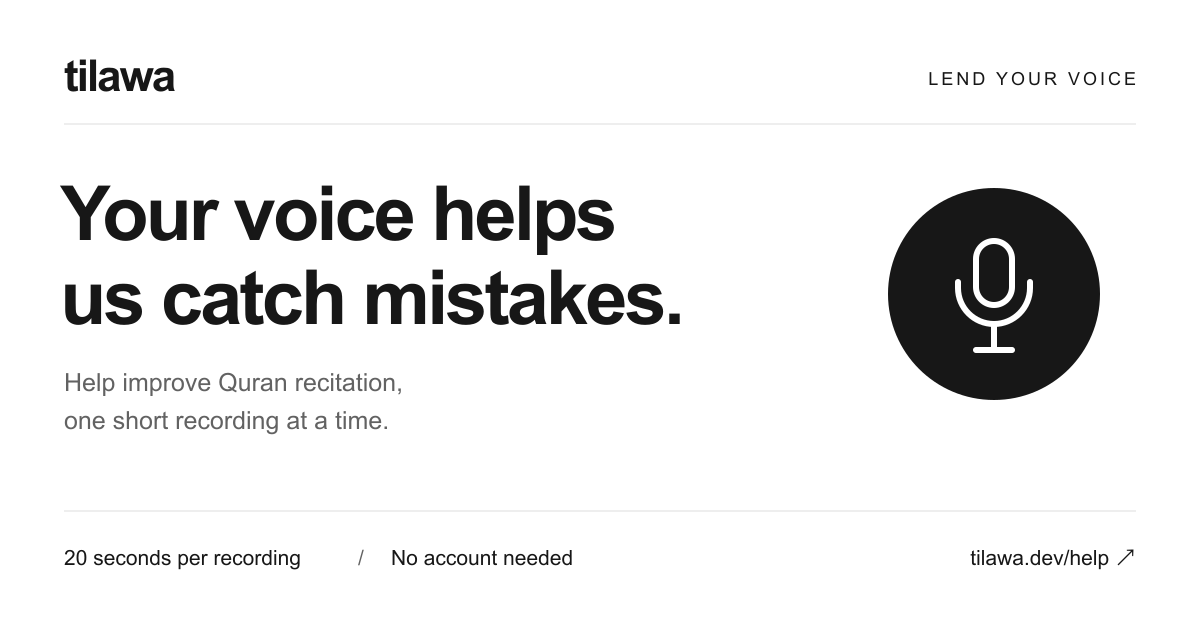
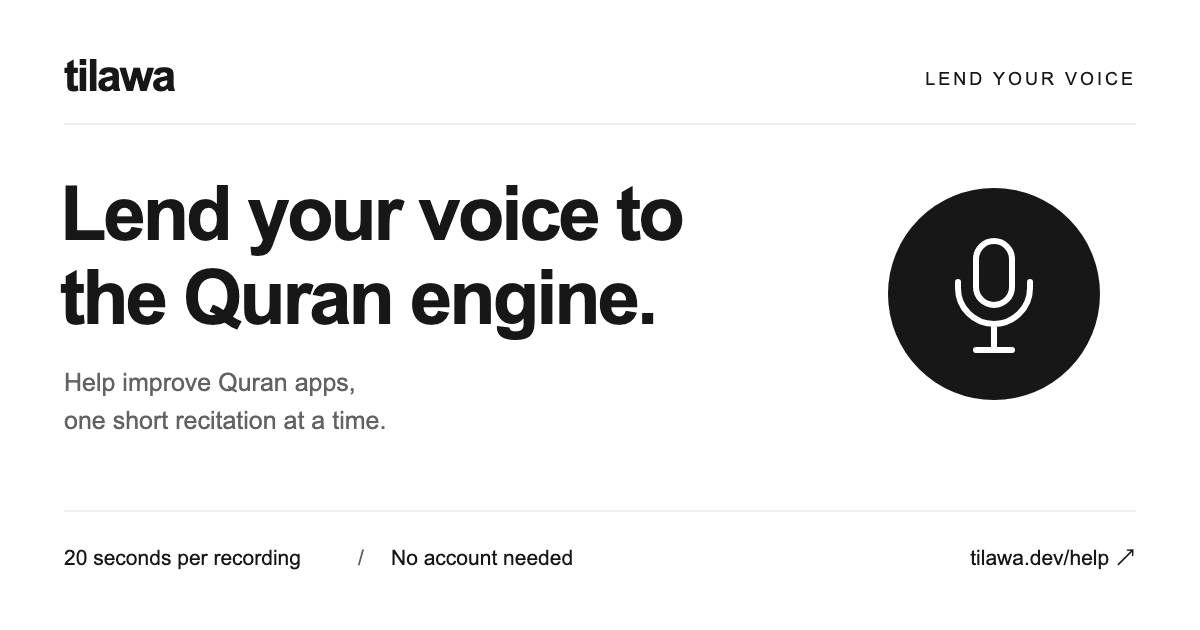
help: collect correct recitations only
Deliberately introducing mistakes into Quran recitation is not
permissible, so /help no longer asks for them. A new v4 generator issues
only normal-recitation prompts: a single ayah (60%) or 2-3 consecutive
ayahs from one surah (40%), which also exercises verse-boundary
tracking. /prompt always serves v4 and ignores ?kind; /submit accepts
only signed v4 prompts with kind 'none', so open tabs still holding
older mistake prompts get 'load another ayah' and nothing is stored.
All mistake copy is gone in en + ar (headline, lede, notes, badges,
confirmations, meta, share preview); the 'made a mistake by accident'
box stays as an honest self-report.

Existing data untouched (backed up first: server tarball
storage/backups/help-20261001T034313Z.tgz, 583 clips). v1-v3 generators
stay for reading past labels. web vitest 67/67; e2e en + ar.

diff --git a/web/frontend/public/help/i18n.js b/web/frontend/public/help/i18n.js
@@ -3,9 +3,9 @@ export const STRINGS = {
     detailsWhy: "Optional. Helps us check how Tilawa works for different readers.",
     learnMore: "Learn more",
     missionTitle: "Better Quran apps, for everyone.",
-    missionBody: "We’re building a free engine that Quran apps can use to follow each verse as you recite and help catch mistakes.",
+    missionBody: "We’re building a free engine that Quran apps can use to follow each verse as you recite.",
     missionGoal: "Our mission is to give developers the tools to build better Quran reading experiences for Muslims around the world.",
-    missionHelp: "Your recordings help us teach and test the engine with real voices and real recitation mistakes.",
+    missionHelp: "Your recordings help us teach and test the engine with real voices: different reciters, accents, and microphones.",
     tryTilawa: "Try Tilawa",
     forDevelopers: "For developers ↗",
 
@@ -22,12 +22,12 @@ export const STRINGS = {
     title: "Lend your voice to better Quran recitation \u2014 Tilawa",
     toggle: 'العربية',
     eyebrow: "Lend your voice",
-    h1: "Your voice helps us catch mistakes.",
-    lede: "Read a short ayah with the mistake we show you, or read it normally when asked. Each recording takes about 20 seconds.",
+    h1: "Lend your voice to the Quran engine.",
+    lede: "Recite a short ayah or two the way you normally would. Each recording takes about 20 seconds.",
     before: 'Before you start',
     note1: "Find a quiet spot. Your phone mic is all you need.",
     note2: "No account needed. Leave out your name and personal details.",
-    note3: 'Each prompt tells you exactly which mistake to make, highlighted in the text. About 1 in 5 asks you to just read normally.',
+    note3: 'Each prompt shows one ayah or a few in a row. Recite them as you normally would.',
     device: 'Recording on',
     'device.phone': 'Phone',
     'device.laptop': 'Laptop',
@@ -45,23 +45,9 @@ export const STRINGS = {
     'level.hafiz': 'Hafiz / teacher',
     consent: 'I agree that my recordings are released under <a href="https://creativecommons.org/licenses/by/4.0/" target="_blank" rel="noopener">CC BY 4.0</a> and may be used to train and evaluate speech models and published as a research dataset. I\'m 18 or older, or have a guardian\'s permission.',
     start: "Let’s begin",
-    'kind.none': 'No mistake',
-    'kind.skip_word': 'Skip a word',
-    'kind.skip_ayah': 'Skip an ayah',
-    'kind.substitution': 'Change a word',
-    'kind.repeat': 'Repeat a word',
-    'kind.vowel': 'Wrong haraka',
-    'kind.tajweed': 'Tajweed slip',
-    noneInstruction: "Read normally, without any mistakes.",
-    'confirm.none': 'I read it correctly',
-    'confirm.skip_word': 'I skipped the highlighted word',
-    'confirm.skip_ayah': 'I skipped the crossed-out ayah',
-    'confirm.substitution': 'I said the other word instead',
-    'confirm.repeat': 'I said the highlighted word twice',
-    'confirm.vowel': 'I read the word with the changed haraka',
-    'confirm.tajweed': 'I made the tajweed slip',
-    'extra.none': 'I slipped up by accident somewhere',
-    'extra.other': 'I also made a different mistake by accident',
+    'kind.none': 'Recite',
+    'confirm.none': 'I recited the whole passage',
+    'extra.none': 'I made a mistake by accident somewhere',
     recIdle: 'Tap to record',
     recOn: 'Recording — tap to stop',
     recDone: "Listen and check",
@@ -80,7 +66,7 @@ export const STRINGS = {
     playbackNote: "This browser can't play the recording back, but it was captured fine. You can still send it.",
     finish: "Done for now",
     doneTitle: n => (n === 1 ? 'Thank you — 1 recording submitted.' : `Thank you — ${n} recordings submitted.`),
-    doneBody: "Your recordings help Tilawa learn to spot recitation mistakes. Thank you for your time and care — every recording makes a difference.",
+    doneBody: "Your recordings help Tilawa follow recitation accurately for every kind of voice. Thank you for your time and care — every recording makes a difference.",
     shareTitle: "Help another voice join in",
     shareBody: "Share this with friends, family, or your Quran group. A few short recordings from them can help too.",
     shareDraft: "A message you can share",
@@ -100,9 +86,9 @@ export const STRINGS = {
     detailsWhy: "اختياري. يساعدنا نعرف كيف تعمل تلاوة مع قرّاء مختلفين.",
     learnMore: "اعرف أكثر",
     missionTitle: "تطبيقات قرآن أفضل للجميع.",
-    missionBody: "نبني محرّكًا مجانيًا تستطيع تطبيقات القرآن استخدامه لتتبّع الآيات أثناء التلاوة والمساعدة في اكتشاف الأخطاء.",
+    missionBody: "نبني محرّكًا مجانيًا تستطيع تطبيقات القرآن استخدامه لتتبّع الآيات أثناء التلاوة.",
     missionGoal: "هدفنا أن نوفّر للمطوّرين الأدوات لبناء تجارب أفضل لقراءة القرآن للمسلمين حول العالم.",
-    missionHelp: "تسجيلاتك تساعدنا على تدريب المحرّك واختباره بأصوات وأخطاء تلاوة حقيقية.",
+    missionHelp: "تسجيلاتك تساعدنا على تدريب المحرّك واختباره بأصوات حقيقية: قرّاء ولهجات وميكروفونات مختلفة.",
     tryTilawa: "جرّب تلاوة",
     forDevelopers: "للمطوّرين ↖",
 
@@ -119,12 +105,12 @@ export const STRINGS = {
     title: 'ساهم بصوتك لتحسين التلاوة — تلاوة',
     toggle: 'English',
     eyebrow: "ساهم بصوتك",
-    h1: "بصوتك، نعرف أخطاء التلاوة.",
-    lede: "اقرأ آية قصيرة مع الخطأ الذي نوضّحه لك، أو اقرأها بشكل صحيح إذا طلبنا ذلك. كل تسجيل حوالي ٢٠ ثانية.",
+    h1: "ساهم بصوتك في محرّك القرآن.",
+    lede: "اقرأ آية قصيرة أو آيتين كما تقرؤها عادةً. كل تسجيل حوالي ٢٠ ثانية.",
     before: 'قبل أن تبدأ',
     note1: "اختر مكانًا هادئًا. ميكروفون جوالك يكفي.",
     note2: "بدون حساب. لا تذكر اسمك أو معلوماتك الشخصية.",
-    note3: 'كل مهمة تخبرك بالخطأ المطلوب بالضبط، مع تظليله في النص. نحو مهمة من كل خمس تطلب قراءة صحيحة فقط.',
+    note3: 'كل مهمة تعرض آية أو آيات متتابعة. اقرأها كما تقرؤها عادةً.',
     device: 'التسجيل عبر',
     'device.phone': 'جوال',
     'device.laptop': 'حاسوب محمول',
@@ -142,23 +128,9 @@ export const STRINGS = {
     'level.hafiz': 'حافظ / معلّم',
     consent: 'أوافق على نشر تسجيلاتي بترخيص <a href="https://creativecommons.org/licenses/by/4.0/deed.ar" target="_blank" rel="noopener">CC BY 4.0</a>، واستخدامها في تدريب نماذج الكلام وتقييمها ونشرها ضمن مجموعة بيانات بحثية. عمري ١٨ عامًا أو أكثر، أو لديّ إذن وليّ أمري.',
     start: "نبدأ؟",
-    'kind.none': 'بلا خطأ',
-    'kind.skip_word': 'اترك كلمة',
-    'kind.skip_ayah': 'اترك آية',
-    'kind.substitution': 'غيّر كلمة',
-    'kind.repeat': 'كرّر كلمة',
-    'kind.vowel': 'حركة خاطئة',
-    'kind.tajweed': 'خطأ تجويدي',
-    noneInstruction: "اقرأ بشكل صحيح، دون أخطاء.",
-    'confirm.none': 'قرأتها قراءة صحيحة',
-    'confirm.skip_word': 'تركتُ الكلمة المظللة',
-    'confirm.skip_ayah': 'تركتُ الآية المشطوبة',
-    'confirm.substitution': 'قلتُ الكلمة الأخرى بدلًا منها',
-    'confirm.repeat': 'كرّرتُ الكلمة المظللة مرتين',
-    'confirm.vowel': 'قرأتُ الكلمة بالحركة المغيّرة',
-    'confirm.tajweed': 'أخطأتُ في التجويد كما طُلب',
+    'kind.none': 'تلاوة',
+    'confirm.none': 'قرأتُ المقطع كاملًا',
     'extra.none': 'أخطأتُ دون قصد في موضع ما',
-    'extra.other': 'أخطأتُ أيضًا خطأً آخر دون قصد',
     recIdle: 'اضغط للتسجيل',
     recOn: 'جارٍ التسجيل — اضغط للإيقاف',
     recDone: "استمع وراجع",
@@ -177,7 +149,7 @@ export const STRINGS = {
     playbackNote: 'لا يستطيع هذا المتصفح تشغيل التسجيل، لكنه سُجّل بنجاح ويمكنك إرساله.',
     finish: "أكتفي بهذا",
     doneTitle: n => `جزاك الله خيرًا — أرسلتَ ${n.toLocaleString('ar-EG')} ${n === 1 ? 'تسجيلًا' : 'تسجيلات'}.`,
-    doneBody: "تسجيلاتك تساعد تلاوة على اكتشاف أخطاء القراءة. شكرًا لوقتك واهتمامك، كل تسجيل منك له أثر.",
+    doneBody: "تسجيلاتك تساعد تلاوة على تتبّع التلاوة بدقة مع كل الأصوات. شكرًا لوقتك واهتمامك، كل تسجيل منك له أثر.",
     shareTitle: "خلّ غيرك يساهم بصوته",
     shareBody: "شارك الصفحة مع أهلك وأصحابك أو مجموعة القرآن. تسجيلات بسيطة منهم تساعدنا أيضًا.",
     shareDraft: "رسالة جاهزة للمشاركة",

diff --git a/web/frontend/test/help-api.test.ts b/web/frontend/test/help-api.test.ts
@@ -5,6 +5,8 @@ import { tmpdir } from 'node:os';
 import { join } from 'node:path';
 import { fileURLToPath } from 'node:url';
 import { generatePrompt, KIND_WEIGHTS, loadQuran } from '../server/help/prompts.mjs';
+import { generatePrompt as generateV4 } from '../server/help/prompts-v4.mjs';
+import { signPrompt } from '../server/help/prompt-token.mjs';
 
 const data = await mkdtemp(join(tmpdir(), 'tilawa-help-api-'));
 const previous = { data: process.env.HELP_DATA_DIR, quran: process.env.QURAN_JSON, secret: process.env.HELP_PROMPT_SECRET };
@@ -31,60 +33,65 @@ afterAll(async () => {
   }
 });
 
-test('every requested kind stores exactly the issued v3 label', async () => {
-  for (const kind of Object.keys(KIND_WEIGHTS)) {
-    const res = await helpApi.request(`/prompt?kind=${kind}`);
-    assert.equal(res.status, 200);
-    const prompt = await res.json();
-    assert.equal(prompt.kind, kind);
-    assert.equal(prompt.v, 3);
-    assert.ok(prompt.token);
-    assert.equal((await submit(prompt, `test_${kind}`)).status, 200);
-    const record = (await records()).at(-1);
-    const expected = generatePrompt(quran, prompt.seed, kind);
-    assert.equal(record.kind, kind);
-    assert.equal(record.prompt_version, 3);
-    assert.equal(record.scenario, expected.label.scenario ?? null);
-    assert.equal(record.mechanism, expected.label.mechanism ?? null);
-    assert.equal(record.passage_family, expected.label.passage_family);
-    assert.equal(record.fluency_control, kind === 'repeat');
-    assert.deepEqual(record.mistakes, expected.label.mistakes);
-    assert.equal((await submit(prompt, `test_${kind}`)).status, 409);
+const exists = async () => readFile(join(data, 'submissions.jsonl'), 'utf8').then(() => true, () => false);
+const count = async () => ((await exists()) ? (await records()).length : 0);
+
+test('only correct-recitation v4 prompts are issued, whatever kind is requested', async () => {
+  for (const kind of [undefined, ...Object.keys(KIND_WEIGHTS)]) {
+    const prompt = await (await helpApi.request(kind ? `/prompt?kind=${kind}` : '/prompt')).json();
+    assert.equal(prompt.v, 4);
+    assert.equal(prompt.kind, 'none');
+    assert.ok(prompt.display.every(a => a.words.every(w => !w.mark)), 'no highlighted alteration');
+    assert.ok(prompt.display.length >= 1 && prompt.display.length <= 3);
   }
 });
 
-test('tampered or missing v3 tokens are rejected before audio is stored', async () => {
-  const prompt = await (await helpApi.request('/prompt?kind=vowel')).json();
-  const before = (await records()).length;
+test('a v4 submission stores the issued label with no mistakes', async () => {
+  const prompt = await (await helpApi.request('/prompt')).json();
+  assert.equal((await submit(prompt, 'test_v4_ok')).status, 200);
+  const record = (await records()).at(-1);
+  const expected = generateV4(quran, prompt.seed);
+  assert.equal(record.prompt_version, 4);
+  assert.equal(record.kind, 'none');
+  assert.equal(record.elicitation, 'normal_recitation');
+  assert.equal(record.ref, expected.label.ref);
+  assert.deepEqual(record.ayahs, expected.label.ayahs);
+  assert.deepEqual(record.mistakes, []);
+  assert.equal((await submit(prompt, 'test_v4_ok')).status, 409);
+});
+
+test('tampered or missing v4 tokens are rejected before audio is stored', async () => {
+  const prompt = await (await helpApi.request('/prompt')).json();
+  const before = await count();
   for (const overrides of [{ token: '' }, { token: `${prompt.token}x` }, { v: '999' }, { seed: String(prompt.seed + 1) }]) {
     assert.equal((await submit(prompt, 'tamper_test', overrides)).status, 400);
   }
-  assert.equal((await records()).length, before);
+  assert.equal(await count(), before);
 });
 
-test('an old client still stores the frozen v1 prompt label', async () => {
-  const seed = 987654;
-  assert.equal((await submit({ seed }, 'legacy_test')).status, 200);
-  const record = (await records()).at(-1);
-  const expected = generatePrompt(quran, seed, undefined, 1);
-  assert.equal(record.prompt_version, 1);
-  assert.equal(record.kind, expected.label.kind);
-  assert.deepEqual(record.mistakes, expected.label.mistakes);
-  assert.equal(record.scenario, null);
+test('retired mistake prompts (legacy v1, signed v2/v3) are never stored', async () => {
+  const before = await count();
+  assert.equal((await submit({ seed: 987654 }, 'legacy_test')).status, 400);
+  for (const [v, kind] of [[2, 'vowel'], [3, 'skip_word'], [3, 'none']]) {
+    const p = generatePrompt(quran, 34567, kind, v);
+    const token = signPrompt(p, process.env.HELP_PROMPT_SECRET);
+    assert.equal((await submit({ ...p, token }, `retired_v${v}_${kind}`)).status, 400);
+  }
+  const forged = { ...generateV4(quran, 4242), label: { ...generateV4(quran, 4242).label, kind: 'vowel' } };
+  assert.equal((await submit({ ...forged, token: signPrompt(forged, process.env.HELP_PROMPT_SECRET) }, 'forged_kind')).status, 400);
+  assert.equal(await count(), before);
 });
 
-
-test('a signed in-progress v2 recording remains valid after bank expansion', async () => {
-  const { signPrompt } = await import('../server/help/prompt-token.mjs');
-  const { verifyPrompt } = await import('../server/help/prompt-token.mjs');
-  const p = generatePrompt(quran, 34567, 'vowel', 2);
-  const token = signPrompt(p, process.env.HELP_PROMPT_SECRET);
-  const restored = verifyPrompt(token, p.seed, process.env.HELP_PROMPT_SECRET);
-  assert.equal(restored.v, 2);
-  assert.deepEqual(restored.label, p.label);
-  assert.equal((await submit({ ...p, token }, 'pending_v2_test')).status, 200);
-  const record = (await records()).at(-1);
-  assert.equal(record.prompt_version, 2);
-  assert.deepEqual(record.mistakes, p.label.mistakes);
-  assert.equal((await submit({ ...p, token }, 'version_mismatch_test', { v: '3' })).status, 400);
+test('v4 passages are real consecutive ayahs within one surah', () => {
+  const shapes = { single: 0, run: 0 };
+  for (let seed = 1; seed < 2000; seed++) {
+    const p = generateV4(quran, seed);
+    shapes[p.label.passage]++;
+    const refs = p.label.ayahs.map(r => r.split(':').map(Number));
+    assert.ok(refs.every(([s]) => s === refs[0][0]), 'same surah');
+    refs.forEach(([, a], i) => i && assert.equal(a, refs[i - 1][1] + 1, 'consecutive'));
+    assert.deepEqual(p.display.map(d => d.ref), p.label.ayahs);
+    p.display.forEach(d => assert.deepEqual(d.words.map(w => w.text), quran.byRef.get(d.ref).words, 'text unaltered'));
+  }
+  assert.ok(Math.abs(shapes.single / 1999 - 0.6) < 0.05, JSON.stringify(shapes));
 });

diff --git a/web/frontend/public/help/index.html b/web/frontend/public/help/index.html
@@ -4,7 +4,7 @@
   <meta charset="utf-8" />
   <meta name="viewport" content="width=device-width, initial-scale=1, viewport-fit=cover" />
   <title>Lend your voice to better Quran recitation — Tilawa</title>
-  <meta name="description" content="Help Tilawa recognize recitation mistakes. Record a short ayah in about 20 seconds. No account needed." />
+  <meta name="description" content="Lend your voice to Tilawa. Recite a short ayah in about 20 seconds. No account needed." />
   <meta name="robots" content="index, follow, max-image-preview:large" />
   <meta name="theme-color" content="#ffffff" />
   <meta name="application-name" content="Tilawa" />
@@ -14,18 +14,18 @@
   <meta property="og:url" content="https://tilawa.dev/help/" />
   <meta property="og:locale" content="en_US" />
   <meta property="og:title" content="Lend your voice to better Quran recitation — Tilawa" />
-  <meta property="og:description" content="Help Tilawa recognize recitation mistakes. Record a short ayah in about 20 seconds. No account needed." />
+  <meta property="og:description" content="Lend your voice to Tilawa. Recite a short ayah in about 20 seconds. No account needed." />
   <meta property="og:image" content="https://tilawa.dev/help/social-preview.png" />
   <meta property="og:image:secure_url" content="https://tilawa.dev/help/social-preview.png" />
   <meta property="og:image:type" content="image/png" />
   <meta property="og:image:width" content="1200" />
   <meta property="og:image:height" content="630" />
-  <meta property="og:image:alt" content="Tilawa. Your voice helps us catch mistakes. Help improve Quran recitation, one short recording at a time." />
+  <meta property="og:image:alt" content="Tilawa. Lend your voice to the Quran engine. Help improve Quran apps, one short recitation at a time." />
   <meta name="twitter:card" content="summary_large_image" />
   <meta name="twitter:title" content="Lend your voice to better Quran recitation — Tilawa" />
-  <meta name="twitter:description" content="Help Tilawa recognize recitation mistakes. Record a short ayah in about 20 seconds. No account needed." />
+  <meta name="twitter:description" content="Lend your voice to Tilawa. Recite a short ayah in about 20 seconds. No account needed." />
   <meta name="twitter:image" content="https://tilawa.dev/help/social-preview.png" />
-  <meta name="twitter:image:alt" content="Tilawa. Your voice helps us catch mistakes. Help improve Quran recitation, one short recording at a time." />
+  <meta name="twitter:image:alt" content="Tilawa. Lend your voice to the Quran engine. Help improve Quran apps, one short recitation at a time." />
   <link rel="preconnect" href="https://fonts.googleapis.com" />
   <link rel="preconnect" href="https://fonts.gstatic.com" crossorigin />
   <link href="https://fonts.googleapis.com/css2?family=Amiri+Quran&family=IBM+Plex+Sans+Arabic:wght@400;500;600&family=IBM+Plex+Sans:wght@400;500;600&display=swap" rel="stylesheet" />
@@ -39,15 +39,15 @@
         <button id="lang" class="lang" lang="ar" data-i18n="toggle"></button>
       </div>
       <p class="eyebrow" data-i18n="eyebrow">Lend your voice</p>
-      <h1 data-i18n="h1">Your voice helps us catch mistakes.</h1>
-      <p class="lede" data-i18n-html="lede">Read a short ayah with the mistake we show you, or read it normally when asked. Each recording takes about 20 seconds.</p>
+      <h1 data-i18n="h1">Lend your voice to the Quran engine.</h1>
+      <p class="lede" data-i18n-html="lede">Recite a short ayah or two the way you normally would. Each recording takes about 20 seconds.</p>
       <details class="learn-more">
         <summary><span data-i18n="learnMore">Learn more</span><svg class="icon" aria-hidden="true"><use href="icons.svg#arrow-right-linear" /></svg></summary>
         <div class="mission">
           <h2 data-i18n="missionTitle">Better Quran apps, for everyone.</h2>
-          <p data-i18n="missionBody">We’re building a free engine that Quran apps can use to follow each verse as you recite and help catch mistakes.</p>
+          <p data-i18n="missionBody">We’re building a free engine that Quran apps can use to follow each verse as you recite.</p>
           <p data-i18n="missionGoal">Our mission is to give developers the tools to build better Quran reading experiences for Muslims around the world.</p>
-          <p data-i18n="missionHelp">Your recordings help us teach and test the engine with real voices and real recitation mistakes.</p>
+          <p data-i18n="missionHelp">Your recordings help us teach and test the engine with real voices: different reciters, accents, and microphones.</p>
           <div class="mission-links"><a href="/" data-i18n="tryTilawa">Try Tilawa</a><a href="https://github.com/yazinsai/tilawa" data-i18n="forDevelopers">For developers ↗</a></div>
         </div>
       </details>

diff --git a/web/frontend/server/help/index.ts b/web/frontend/server/help/index.ts
@@ -1,13 +1,14 @@
-// tilawa.dev/help — volunteers record deliberate recitation mistakes for the
-// correction eval. Labels are derived from the prompt seed server-side, so a
-// recording can never carry a label other than the one that was shown.
+// tilawa.dev/help — volunteers record correct recitations. Only v4 (correct
+// recitation) prompts are issued or accepted: deliberately altering the Quran
+// is not permissible, so mistake prompts from older versions are retired.
 import { createHash, randomBytes, randomInt } from "node:crypto";
 import { existsSync, readFileSync } from "node:fs";
 import { appendFile, mkdir, readFile, writeFile } from "node:fs/promises";
 import { join, resolve } from "node:path";
 import { Hono, type Context } from "hono";
 import { bodyLimit } from "hono/body-limit";
-import { generatePrompt, KIND_WEIGHTS, loadQuran } from "./prompts.mjs";
+import { loadQuran } from "./prompts.mjs";
+import { generatePrompt } from "./prompts-v4.mjs";
 import { signPrompt, verifyPrompt } from "./prompt-token.mjs";
 
 const DATA_DIR = resolve(process.env.HELP_DATA_DIR ?? "./storage/help");
@@ -72,8 +73,7 @@ export const helpApi = new Hono();
 helpApi.get("/config", (c) => c.json({ consent: CONSENT_VERSION }));
 
 helpApi.get("/prompt", (c) => {
-  const kind = c.req.query("kind");
-  const p = generatePrompt(getQuran(), randomInt(0, 2 ** 32 - 1), kind && Object.hasOwn(KIND_WEIGHTS, kind) ? kind : undefined);
+  const p = generatePrompt(getQuran(), randomInt(0, 2 ** 32 - 1));
   return c.json({ v: p.v, token: signPrompt(p, PROMPT_SECRET), seed: p.seed, kind: p.label.kind, display: p.display, instruction: p.instruction });
 });
 
@@ -100,12 +100,9 @@ helpApi.post(
     if (problems.length) return c.json({ error: `Invalid: ${problems.join(", ")}` }, 400);
     if (used.has(`${q.speaker}:${seed}`)) return c.json({ error: "Already submitted." }, 409);
 
-    // Legacy clients have neither v nor token. Reconstruct using the frozen
-    // v1 generator; v2/v3 clients must submit the signed label that they saw.
-    const prompt = q.v === undefined && q.token === undefined
-      ? generatePrompt(getQuran(), seed, undefined, 1)
-      : ["2", "3"].includes(q.v) ? verifyPrompt(q.token, seed, PROMPT_SECRET) : null;
-    if (!prompt || (q.v && String(prompt.v) !== q.v)) return c.json({ error: "Invalid prompt. Load another ayah and try again." }, 400);
+    // Tabs opened before v4 may still hold mistake prompts; never store those.
+    const prompt = q.v === "4" ? verifyPrompt(q.token, seed, PROMPT_SECRET) : null;
+    if (!prompt || prompt.v !== 4 || prompt.label.kind !== "none") return c.json({ error: "Invalid prompt. Load another ayah and try again." }, 400);
 
     const audio = Buffer.from(await c.req.arrayBuffer());
     if (audio.length < MIN_BYTES) return c.json({ error: "Recording is empty or too short." }, 400);
@@ -125,7 +122,9 @@ helpApi.post(
       scenario: prompt.label.scenario ?? null,
       mechanism: prompt.label.mechanism ?? null,
       passage_family: prompt.label.passage_family ?? null,
-      elicitation: prompt.label.elicitation ?? "legacy_acted_or_normal",
+      elicitation: prompt.label.elicitation,
+      ayahs: prompt.label.ayahs,
+      passage: prompt.label.passage,
       fluency_control: prompt.label.fluency_control ?? false,
       speaker: q.speaker,
       device: q.device,

diff --git a/web/frontend/public/help/app.js b/web/frontend/public/help/app.js
@@ -215,12 +215,12 @@ async function nextPrompt() {
 
 function renderPrompt() {
   $('task').dataset.kind = prompt.kind;
-  $('kind-badge').textContent = t(`kind.${prompt.kind}`);
+  $('kind-badge').textContent = t('kind.none');
   const first = prompt.display[0];
   $('ref').textContent = `${prompt.display.map(a => a.ref).join(' · ')} — ${lang === 'ar' ? first.surahNameAr : first.surahName}`;
-  $('instruction').textContent = prompt.kind === 'none' ? t('noneInstruction') : prompt.instruction[lang];
-  $('followed-label').textContent = t(`confirm.${prompt.kind}`);
-  $('extra-label').textContent = t(prompt.kind === 'none' ? 'extra.none' : 'extra.other');
+  $('instruction').textContent = prompt.instruction[lang];
+  $('followed-label').textContent = t('confirm.none');
+  $('extra-label').textContent = t('extra.none');
 
   const text = $('text');
   text.replaceChildren();
